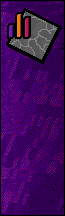
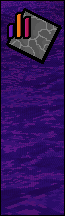
Updating some art to better conform to the color palette. I've decided not to take it too seriously though.

diff --git a/about.html b/about.html
@@ -209,7 +209,7 @@
 		onclick="if (event.target === this) parent.document.querySelector('iframe#about_box').classList.add('hidden')"
 	>
 		<a id="link_to_egg" class="standalone" href="index.html"
-			><img id="get_egg" src="assets/ui/get_egg.png"
+			><img id="get_egg" src="assets/ui/get_egg.bmp"
 		/></a>
 		<div class="window">
 			<div class="title-bar">

diff --git a/assets/98/style.css b/assets/98/style.css
@@ -114,7 +114,7 @@ button::-moz-focus-inner {
 }
 
 .title-bar {
-	background: #601790;
+	background: #69199d;
 	padding: 3rem 2rem 3rem 3rem;
 	display: flex;
 	justify-content: space-between;
